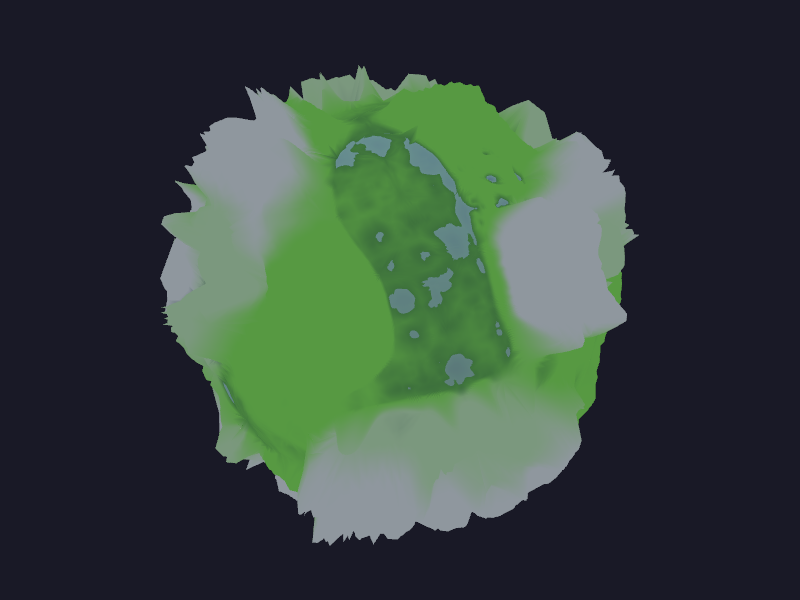
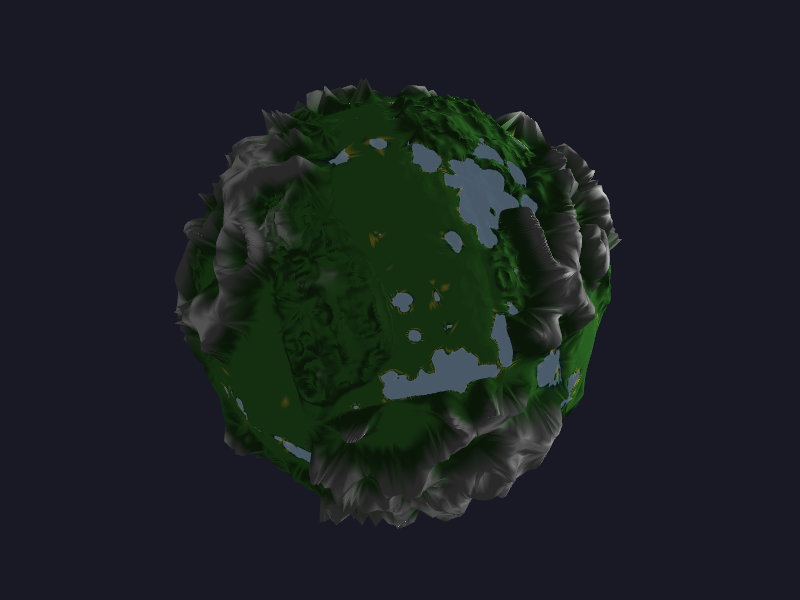
sun lightning

diff --git a/src/rendering/Terrain.h b/src/rendering/Terrain.h
@@ -81,23 +81,27 @@ public:
 
     static glm::dvec3 landscapeColorFactors(double heightMeters, double slope,
                                              double waterLevelMeters,
+                                             double beachWidthMeters,
                                              double maximumHeightMeters,
                                              double steepSlopeThreshold) {
         const glm::dvec3 seabed(0.30, 0.40, 0.19);
         const glm::dvec3 beach(4.20, 1.90, 0.18);
         const glm::dvec3 grass(1.10, 1.30, 0.18);
         const glm::dvec3 snow(4.60, 2.30, 0.92);
-        const double beachTop = waterLevelMeters + 0.1;
+        const double beachTop = waterLevelMeters + beachWidthMeters;
+        const double beachFade = std::max(0.15, 0.15 * beachWidthMeters);
         const double usableRelief = std::max(1.0, maximumHeightMeters - waterLevelMeters);
         const double snowStart = std::max(beachTop + 1.0,
-                                          waterLevelMeters + 0.55 * usableRelief);
+                                          waterLevelMeters + 0.25 * usableRelief);
         const double snowEnd = std::max(snowStart + 1.0,
-                                        waterLevelMeters + 0.75 * usableRelief);
+                                        waterLevelMeters + 0.40 * usableRelief);
 
-        const double aboveWater = smoothstep(waterLevelMeters - 0.05,
-                                             waterLevelMeters + 0.02, heightMeters);
+        const double aboveWater = smoothstep(
+            waterLevelMeters - std::max(0.05, 0.05 * beachWidthMeters),
+            waterLevelMeters + std::max(0.02, 0.02 * beachWidthMeters),
+            heightMeters);
         const double beachWeight = aboveWater *
-            (1.0 - smoothstep(beachTop, beachTop + 0.15, heightMeters));
+            (1.0 - smoothstep(beachTop, beachTop + beachFade, heightMeters));
         const double snowWeight = smoothstep(snowStart, snowEnd, heightMeters);
         glm::dvec3 land = glm::mix(grass, beach, beachWeight);
         land = glm::mix(land, snow, snowWeight);
@@ -105,11 +109,12 @@ public:
         const double darkStart = std::max(0.05, steepSlopeThreshold);
         const double darkEnd = std::max(darkStart + 0.2, 3.0 * darkStart);
         const double steep = smoothstep(darkStart, darkEnd, slope);
-        land *= glm::mix(1.0, 0.32, steep);
+        land *= glm::mix(1.0, 0.50, steep);
 
-        const double submerged = 1.0 - smoothstep(waterLevelMeters - 0.5,
-                                                   waterLevelMeters + 0.02,
-                                                   heightMeters);
+        const double submerged = 1.0 - smoothstep(
+            waterLevelMeters - std::max(0.5, 0.05 * beachWidthMeters),
+            waterLevelMeters + std::max(0.02, 0.02 * beachWidthMeters),
+            heightMeters);
         return glm::mix(land, seabed, submerged);
     }
 
@@ -353,8 +358,7 @@ public:
             if (localView && arcMeters < lod_.mid_surface_distance_m)
                 ++geometry.fineNoiseSamples;
             else ++geometry.coarseNoiseSamples;
-            return GridSample{radial * (1.0 + height / radius_), height,
-                              colorAt(radial, height)};
+            return makeGridSample(radial, height);
         };
         for (auto& [key, edge] : edges) {
             edge.samples.reserve(edge.segments + 1);
@@ -418,7 +422,12 @@ private:
     struct GridSample {
         glm::dvec3 position;
         double height;
+        glm::dvec3 normal;
         glm::dvec3 color;
+    };
+    struct SurfaceGradient {
+        double slope;
+        glm::dvec3 normal;
     };
     using VertexKey = std::array<std::int64_t, 3>;
     using EdgeKey = std::pair<VertexKey, VertexKey>;
@@ -550,7 +559,7 @@ private:
         return result;
     }
 
-    double slopeAt(const glm::dvec3& radial, double heightMeters) const {
+    SurfaceGradient gradientAt(const glm::dvec3& radial, double heightMeters) const {
         const glm::dvec3 reference = std::abs(radial.z) < 0.8 ?
             glm::dvec3(0.0, 0.0, 1.0) : glm::dvec3(0.0, 1.0, 0.0);
         const glm::dvec3 tangentA = glm::normalize(glm::cross(reference, radial));
@@ -562,12 +571,15 @@ private:
             std::cos(angle) * radial + std::sin(angle) * tangentA);
         const glm::dvec3 sampleB = glm::normalize(
             std::cos(angle) * radial + std::sin(angle) * tangentB);
-        const double riseA = heightAt(sampleA) * metersPerUnit_ - heightMeters;
-        const double riseB = heightAt(sampleB) * metersPerUnit_ - heightMeters;
-        return std::hypot(riseA, riseB) / distanceMeters;
+        const double gradientA =
+            (heightAt(sampleA) * metersPerUnit_ - heightMeters) / distanceMeters;
+        const double gradientB =
+            (heightAt(sampleB) * metersPerUnit_ - heightMeters) / distanceMeters;
+        return {std::hypot(gradientA, gradientB),
+                glm::normalize(radial - gradientA * tangentA - gradientB * tangentB)};
     }
 
-    glm::dvec3 colorAt(const glm::dvec3& radial, double heightWorld) const {
+    glm::dvec3 colorAt(double heightWorld, double slope) const {
         if (!landscape_.enabled) {
             const double normalizedHeight = totalAmplitudeMeters_ == 0.0 ? 0.0 :
                 heightWorld / (totalAmplitudeMeters_ / metersPerUnit_);
@@ -575,9 +587,17 @@ private:
             return glm::dvec3(tint);
         }
         const double heightMeters = heightWorld * metersPerUnit_;
-        return landscapeColorFactors(heightMeters, slopeAt(radial, heightMeters),
-            waterLevelMeters_.value_or(0.0), totalAmplitudeMeters_,
+        return landscapeColorFactors(heightMeters, slope,
+            waterLevelMeters_.value_or(0.0), 0.1,
+            totalAmplitudeMeters_,
             lod_.steep_slope_threshold);
+    }
+
+    GridSample makeGridSample(const glm::dvec3& radial, double heightWorld) const {
+        const SurfaceGradient gradient = gradientAt(
+            radial, heightWorld * metersPerUnit_);
+        return {radial * (1.0 + heightWorld / radius_), heightWorld,
+                gradient.normal, colorAt(heightWorld, gradient.slope)};
     }
 
     void subdivideBase(const glm::dvec3& a, const glm::dvec3& b,
@@ -606,8 +626,7 @@ private:
                     static_cast<double>(segments - i - j) * a +
                     static_cast<double>(i) * b + static_cast<double>(j) * c);
                 const double height = heightAt(radial);
-                grid[i].push_back({radial * (1.0 + height / radius_), height,
-                                   colorAt(radial, height)});
+                grid[i].push_back(makeGridSample(radial, height));
             }
         }
         for (int i = 0; i < segments; ++i) {
@@ -631,14 +650,13 @@ private:
         const glm::dvec3& pc = c.position;
         if (glm::dot(glm::cross(pb - pa, pc - pa), pa + pb + pc) < 0.0)
             std::swap(second, third);
-        const glm::dvec3 normal = glm::normalize(glm::cross(
-            second->position - first->position, third->position - first->position));
         const unsigned int start = static_cast<unsigned int>(geometry.indices.size());
         for (const GridSample* sample : {first, second, third}) {
             for (double component : {sample->position.x, sample->position.y,
                                      sample->position.z})
                 geometry.vertices.push_back(static_cast<float>(component));
-            for (double component : {normal.x, normal.y, normal.z})
+            for (double component : {sample->normal.x, sample->normal.y,
+                                     sample->normal.z})
                 geometry.vertices.push_back(static_cast<float>(component));
             for (double component : {sample->color.x, sample->color.y, sample->color.z})
                 geometry.vertices.push_back(static_cast<float>(component));

diff --git a/tests/test_terrain.cpp b/tests/test_terrain.cpp
@@ -96,7 +96,7 @@ TEST(TerrainTest, LandscapePaletteUsesWaterRelativeBeachGreenSnowAndDarkSlopes) 
     const glm::dvec3 planetColor(0.2, 0.4, 1.0);
     auto color = [&](double height, double slope, double water = 0.0) {
         return planetColor * rendering::TerrainSurface::landscapeColorFactors(
-            height, slope, water, 40.0, 0.3);
+            height, slope, water, 0.1, 40.0, 0.3);
     };
     const glm::dvec3 seabed = color(-1.0, 0.0);
     const glm::dvec3 beach = color(0.06, 0.0);
@@ -114,7 +114,7 @@ TEST(TerrainTest, LandscapePaletteUsesWaterRelativeBeachGreenSnowAndDarkSlopes) 
     EXPECT_LT(std::max({snow.x, snow.y, snow.z}) -
               std::min({snow.x, snow.y, snow.z}), 0.01);
     EXPECT_GT(snow.x, 0.9);
-    EXPECT_LT(glm::length(steepGrass), 0.5 * glm::length(grass));
+    EXPECT_LT(glm::length(steepGrass), 0.6 * glm::length(grass));
 }
 
 TEST(TerrainTest, OverlappingFunctionsAddTheirIndependentHeightFields) {
@@ -261,10 +261,11 @@ TEST(TerrainTest, TrianglesCarrySampledHeightsAndSmoothSharedCornerTint) {
             const double sampled = terrain.heightAt(glm::normalize(point));
             EXPECT_NEAR(glm::length(point) * 0.025 - 0.025, sampled, 2e-8);
             const std::size_t offset = static_cast<std::size_t>(index) * 9;
-            EXPECT_NEAR(glm::length(glm::dvec3(geometry.vertices[offset + 3],
-                                             geometry.vertices[offset + 4],
-                                             geometry.vertices[offset + 5]) - normal),
-                        0.0, 1e-5);
+            const glm::dvec3 smoothNormal(geometry.vertices[offset + 3],
+                                          geometry.vertices[offset + 4],
+                                          geometry.vertices[offset + 5]);
+            EXPECT_NEAR(glm::length(smoothNormal), 1.0, 1e-5);
+            EXPECT_GT(glm::dot(smoothNormal, point), 0.0);
             for (int channel = 7; channel <= 8; ++channel)
                 EXPECT_FLOAT_EQ(geometry.vertices[offset + channel],
                                 geometry.vertices[offset + 6]);
@@ -279,11 +280,18 @@ TEST(TerrainTest, TrianglesCarrySampledHeightsAndSmoothSharedCornerTint) {
         if (greatestTintDifference > 1e-5f) ++gradientFaces;
     }
     EXPECT_GT(gradientFaces, 0);
-    // Neighboring faces duplicate vertices, but their shared-edge tints agree.
+    // Neighboring faces duplicate vertices, but their procedural normals and
+    // shared-edge tints agree, preventing visible lighting seams.
     EXPECT_NEAR(glm::length(vertex(geometry, 1) - vertex(geometry, 3)), 0.0, 1e-12);
     EXPECT_NEAR(glm::length(vertex(geometry, 2) - vertex(geometry, 5)), 0.0, 1e-12);
     EXPECT_FLOAT_EQ(geometry.vertices[1 * 9 + 6], geometry.vertices[3 * 9 + 6]);
     EXPECT_FLOAT_EQ(geometry.vertices[2 * 9 + 6], geometry.vertices[5 * 9 + 6]);
+    for (int channel = 3; channel <= 5; ++channel) {
+        EXPECT_FLOAT_EQ(geometry.vertices[1 * 9 + channel],
+                        geometry.vertices[3 * 9 + channel]);
+        EXPECT_FLOAT_EQ(geometry.vertices[2 * 9 + channel],
+                        geometry.vertices[5 * 9 + channel]);
+    }
     EXPECT_LT(lowest, highest);
     EXPECT_LT(lowTint, highTint);
     EXPECT_LT(lowTint, 0.72f);
@@ -339,11 +347,15 @@ TEST(TerrainTest, LocalZonesAreDenserWatertightAndStayWithinBudget) {
     const rendering::TerrainSurface terrain(planet.surface_noise, planet.terrain_lod,
         planet.radius, scenario.metersPerWorldUnit(), planet.terrain_landscape);
     const glm::dvec3 center(planet.position[0], planet.position[1], planet.position[2]);
-    const auto distant = terrain.buildGeometryForEye(center + glm::dvec3(2, 0, 0), center);
-    const auto orbit = terrain.buildGeometryForEye(center + glm::dvec3(0.28, 0, 0), center);
-    const auto nearby = terrain.buildGeometryForEye(center + glm::dvec3(0.102, 0, 0), center);
+    const double surfaceDistance = planet.radius + scenario.surface_camera.altitude;
+    const auto distant = terrain.buildGeometryForEye(
+        center + glm::dvec3(4.0 * planet.radius, 0, 0), center);
     EXPECT_EQ(distant.zoneFaces, (std::array<int, 3>{320, 0, 0}));
     EXPECT_EQ(distant.fineNoiseSamples, 0);
+    const auto orbit = terrain.buildGeometryForEye(
+        center + glm::dvec3(2.8 * planet.radius, 0, 0), center);
+    const auto nearby = terrain.buildGeometryForEye(
+        center + glm::dvec3(surfaceDistance, 0, 0), center);
     EXPECT_GT(orbit.zoneFaces[2], 0);
     EXPECT_GT(orbit.fineNoiseSamples, 0);
     EXPECT_LE(orbit.triangleCount(), planet.terrain_lod.max_triangle_budget);
@@ -392,7 +404,8 @@ TEST(TerrainTest, SteepFacesUseSpareTriangleBudgetForExtraDetail) {
     const rendering::TerrainSurface adaptive(planet.surface_noise, planet.terrain_lod,
         planet.radius, scenario.metersPerWorldUnit(), planet.terrain_landscape);
     const glm::dvec3 center(planet.position[0], planet.position[1], planet.position[2]);
-    const glm::dvec3 eye = center + glm::dvec3(0.102, 0.0, 0.0);
+    const glm::dvec3 eye = center +
+        glm::dvec3(planet.radius + scenario.surface_camera.altitude, 0.0, 0.0);
     const auto ordinaryGeometry = ordinary.buildGeometryForEye(eye, center);
     const auto adaptiveGeometry = adaptive.buildGeometryForEye(eye, center);
 
@@ -410,13 +423,16 @@ TEST(TerrainTest, ZoneHysteresisRetainsDetailWhenEyeCrossesABoundary) {
     const rendering::TerrainSurface terrain(planet.surface_noise, planet.terrain_lod,
         planet.radius, scenario.metersPerWorldUnit(), planet.terrain_landscape);
     const glm::dvec3 center(planet.position[0], planet.position[1], planet.position[2]);
-    const glm::dvec3 startEye = center + glm::dvec3(0.102, 0.0, 0.0);
-    const glm::dvec3 movedEye = center + 0.102 *
-        glm::dvec3(std::cos(0.1), std::sin(0.1), 0.0); // about 10 m along the surface
+    const double eyeRadius = planet.radius + scenario.surface_camera.altitude;
+    const glm::dvec3 startEye = center + glm::dvec3(eyeRadius, 0.0, 0.0);
+    const glm::dvec3 movedEye = center + eyeRadius *
+        glm::dvec3(std::cos(0.1), std::sin(0.1), 0.0);
     const auto first = terrain.buildGeometryForEye(startEye, center);
     const auto withoutHysteresis = terrain.buildGeometryForEye(movedEye, center);
+    const double hysteresisMeters = 0.2 * planet.radius *
+                                    scenario.metersPerWorldUnit();
     const auto protectedMesh = terrain.buildGeometryForEye(
-        movedEye, center, &first.faceZones, 20.0);
+        movedEye, center, &first.faceZones, hysteresisMeters);
     ASSERT_EQ(first.faceZones.size(), 320u);
     ASSERT_EQ(protectedMesh.faceZones.size(), first.faceZones.size());
     int retainedNearFaces = 0;
@@ -439,10 +455,12 @@ TEST(TerrainTest, TerrainVerticesStayFixedWhenWalkingWithinTheSameZones) {
     const rendering::TerrainSurface terrain(planet.surface_noise, planet.terrain_lod,
         planet.radius, scenario.metersPerWorldUnit(), planet.terrain_landscape);
     const glm::dvec3 center(planet.position[0], planet.position[1], planet.position[2]);
-    const glm::dvec3 eye = center + glm::dvec3(0.102, 0.0, 0.0);
+    const glm::dvec3 eye = center +
+        glm::dvec3(planet.radius + scenario.surface_camera.altitude, 0.0, 0.0);
     const auto first = terrain.buildGeometryForEye(eye, center);
     const auto moved = terrain.buildGeometryForEye(
-        eye + glm::dvec3(0.0, 0.00001, 0.0), center, &first.faceZones, 20.0);
+        eye + glm::dvec3(0.0, planet.radius * 0.0001, 0.0), center,
+        &first.faceZones, 0.2 * planet.radius * scenario.metersPerWorldUnit());
     ASSERT_EQ(first.faceZones, moved.faceZones);
     ASSERT_EQ(first.indices, moved.indices);
     ASSERT_EQ(first.vertices.size(), moved.vertices.size());

diff --git a/tests/test_config.cpp b/tests/test_config.cpp
@@ -150,15 +150,15 @@ TEST(ScenarioConfigTest, DevelopmentSceneUsesPlanetListAndTerrainSettings) {
     ASSERT_EQ(scenario.planets[0].surface_noise.size(), 2u);
     EXPECT_EQ(scenario.planets[0].surface_noise[0].type, "value_fbm");
     EXPECT_EQ(scenario.planets[0].surface_noise[1].type, "ridged_fbm");
-    EXPECT_DOUBLE_EQ(scenario.planets[0].surface_noise[0].amplitude_m, 6.8);
-    EXPECT_DOUBLE_EQ(scenario.planets[0].surface_noise[1].amplitude_m, 4.0);
+    EXPECT_DOUBLE_EQ(scenario.planets[0].surface_noise[0].amplitude_m, 68.0);
+    EXPECT_DOUBLE_EQ(scenario.planets[0].surface_noise[1].amplitude_m, 40.0);
     EXPECT_EQ(scenario.planets[0].terrain_lod.base_edge_segments, 3);
     EXPECT_EQ(scenario.planets[0].terrain_lod.max_edge_segments, 16);
     EXPECT_EQ(scenario.planets[0].terrain_lod.medium_edge_segments, 8);
     EXPECT_EQ(scenario.planets[0].terrain_lod.steep_edge_segments, 32);
     EXPECT_DOUBLE_EQ(scenario.planets[0].terrain_lod.steep_slope_threshold, 0.3);
-    EXPECT_DOUBLE_EQ(scenario.planets[0].terrain_lod.near_surface_distance_m, 30.0);
-    EXPECT_DOUBLE_EQ(scenario.planets[0].terrain_lod.mid_surface_distance_m, 100.0);
+    EXPECT_DOUBLE_EQ(scenario.planets[0].terrain_lod.near_surface_distance_m, 300.0);
+    EXPECT_DOUBLE_EQ(scenario.planets[0].terrain_lod.mid_surface_distance_m, 1000.0);
     EXPECT_EQ(scenario.planets[0].terrain_lod.max_triangle_budget, 100000);
     EXPECT_TRUE(scenario.planets[0].terrain_landscape.enabled);
     EXPECT_DOUBLE_EQ(scenario.planets[0].terrain_landscape.ridge_smoothing, 0.25);
@@ -170,8 +170,8 @@ TEST(ScenarioConfigTest, DevelopmentSceneUsesPlanetListAndTerrainSettings) {
     EXPECT_DOUBLE_EQ(scenario.planets[0].water.opacity, 0.5);
     EXPECT_DOUBLE_EQ(scenario.planets[0].water.reflection_fraction, 0.5);
     EXPECT_DOUBLE_EQ(scenario.surface_camera.altitude *
-                     scenario.metersPerWorldUnit(), 2.0);
-    EXPECT_DOUBLE_EQ(scenario.surface_camera.walk_speed_mps, 8.0);
+                     scenario.metersPerWorldUnit(), 30.0);
+    EXPECT_DOUBLE_EQ(scenario.surface_camera.walk_speed_mps, 80.0);
 }
 
 TEST(ScenarioConfigTest, SurfaceCameraCanSelectSecondPlanetFromList) {
@@ -446,18 +446,18 @@ TEST(ScenarioConfigTest, LoadsTheDevelopmentSunAndPlanetFromDisk) {
     EXPECT_EQ(scenario.name, "Solar System");
     EXPECT_EQ(scenario.distance_unit, "km");
     EXPECT_DOUBLE_EQ(scenario.metersPerWorldUnit(), 1000.0);
-    EXPECT_DOUBLE_EQ(scenario.sun.radius * 2.0, 1.0); // 1 km diameter.
+    EXPECT_DOUBLE_EQ(scenario.sun.radius * 2.0, 5.0); // 5 km diameter.
     ASSERT_EQ(scenario.planets.size(), 1u);
     EXPECT_DOUBLE_EQ(scenario.planets[0].radius * 2.0 *
-                     scenario.metersPerWorldUnit(), 200.0);
+                     scenario.metersPerWorldUnit(), 2000.0);
     EXPECT_DOUBLE_EQ(scenario.planets[0].orbit_radius, 10.0);
     EXPECT_DOUBLE_EQ(scenario.planets[0].position[0] - scenario.sun.position[0], 10.0);
     EXPECT_DOUBLE_EQ(scenario.surface_camera.altitude *
-                     scenario.metersPerWorldUnit(), 2.0);
+                     scenario.metersPerWorldUnit(), 30.0);
     EXPECT_GT(scenario.sun.color[0], scenario.sun.color[2]);
     EXPECT_GT(scenario.planets[0].color[2], scenario.planets[0].color[0]);
-    EXPECT_EQ(scenario.camera.position, (std::array<double, 3>{12.0, 0.0, 0.5}));
-    EXPECT_EQ(scenario.camera.target, (std::array<double, 3>{0.0, 0.0, 0.0}));
+    EXPECT_EQ(scenario.camera.position, (std::array<double, 3>{15.0, 15.0, 8.0}));
+    EXPECT_EQ(scenario.camera.target, (std::array<double, 3>{5.0, 0.0, 0.0}));
     EXPECT_DOUBLE_EQ(scenario.camera.fov, 60.0);
 }
 

diff --git a/tests/test_scene_transforms.cpp b/tests/test_scene_transforms.cpp
@@ -31,7 +31,8 @@ TEST(SceneTransformsTest, ProjectionMapsNearAndFarPlanesToOpenGLDepthRange) {
 }
 
 TEST(SceneTransformsTest, CurrentSunAndPlanetCentersAreVisibleAndSeparate) {
-    OrbitCamera camera(glm::vec3(0.0f), glm::vec3(12.0f, 0.0f, 0.5f));
+    OrbitCamera camera(glm::vec3(5.0f, 0.0f, 0.0f),
+                       glm::vec3(10.0f, 15.0f, 8.0f));
     const glm::mat4 viewProjection =
         rendering::perspectiveProjection(camera.fov, 4.0f / 3.0f) * camera.getViewMatrix();
     const glm::vec4 sunClip = viewProjection * glm::vec4(0.0f, 0.0f, 0.0f, 1.0f);
@@ -84,5 +85,18 @@ TEST(SceneTransformsTest, WaterReflectionViewMirrorsEyeAndDirectionAtTangentPlan
     EXPECT_GT(reflectedForward.y, 0.7);
     EXPECT_GT(reflectedForward.z, 0.7);
     EXPECT_THROW(rendering::waterReflectionView(view, eye, glm::dvec3(0.0), 0.0),
+                 std::invalid_argument);
+}
+
+TEST(SceneTransformsTest, DirectionalBrightnessFollowsTheSunWithAmbientBacklight) {
+    const glm::dvec3 position(0.0);
+    const glm::dvec3 sun(0.0, 0.0, 10.0);
+    EXPECT_DOUBLE_EQ(rendering::directionalBrightness({0.0, 0.0, 1.0}, position, sun),
+                     1.0);
+    EXPECT_DOUBLE_EQ(rendering::directionalBrightness({0.0, 0.0, -1.0}, position, sun),
+                     0.35);
+    EXPECT_DOUBLE_EQ(rendering::directionalBrightness({1.0, 0.0, 0.0}, position, sun),
+                     0.35);
+    EXPECT_THROW(rendering::directionalBrightness({0.0, 0.0, 0.0}, position, sun),
                  std::invalid_argument);
 }

diff --git a/src/main.cpp b/src/main.cpp
@@ -208,6 +208,9 @@ void renderScene(const config::ScenarioConfig& scenario, const glm::mat4& view, 
         shader.setMat4("view", glm::value_ptr(passView));
         shader.setFloat3("uClipCenter", clipCenter.x, clipCenter.y, clipCenter.z);
         shader.setFloat("uClipRadius", clipRadius);
+        shader.setFloat3("uSunPosition", static_cast<float>(sun.position[0]),
+                          static_cast<float>(sun.position[1]),
+                          static_cast<float>(sun.position[2]));
 
         const glm::mat4 sunModel = rendering::sphereModel(glm::vec3(
             static_cast<float>(sun.position[0]),
@@ -217,6 +220,7 @@ void renderScene(const config::ScenarioConfig& scenario, const glm::mat4& view, 
         shader.setFloat3("uColor", static_cast<float>(sun.color[0]),
                          static_cast<float>(sun.color[1]),
                          static_cast<float>(sun.color[2]));
+        shader.setFloat("uEmissive", 1.0f);
         sunMesh.draw();
 
         for (std::size_t i = 0; i < scenario.planets.size(); ++i) {
@@ -230,6 +234,7 @@ void renderScene(const config::ScenarioConfig& scenario, const glm::mat4& view, 
             shader.setFloat3("uColor", static_cast<float>(planet.color[0]),
                              static_cast<float>(planet.color[1]),
                              static_cast<float>(planet.color[2]));
+            shader.setFloat("uEmissive", 0.0f);
             planetMeshes[i].draw();
         }
     };

diff --git a/src/rendering/SceneTransforms.h b/src/rendering/SceneTransforms.h
@@ -75,4 +75,18 @@ inline glm::mat4 waterReflectionView(const glm::mat4& view,
                        glm::vec3(reflectedUp));
 }
 
+inline double directionalBrightness(const glm::dvec3& normal,
+                                    const glm::dvec3& worldPosition,
+                                    const glm::dvec3& sunPosition,
+                                    double ambient = 0.35) {
+    if (!std::isfinite(ambient) || ambient < 0.0 || ambient > 1.0 ||
+        glm::length(normal) <= 1e-12 ||
+        glm::length(sunPosition - worldPosition) <= 1e-12) {
+        throw std::invalid_argument("Directional brightness requires valid vectors");
+    }
+    const double diffuse = std::max(0.0, glm::dot(
+        glm::normalize(normal), glm::normalize(sunPosition - worldPosition)));
+    return ambient + (1.0 - ambient) * diffuse;
+}
+
 } // namespace rendering
